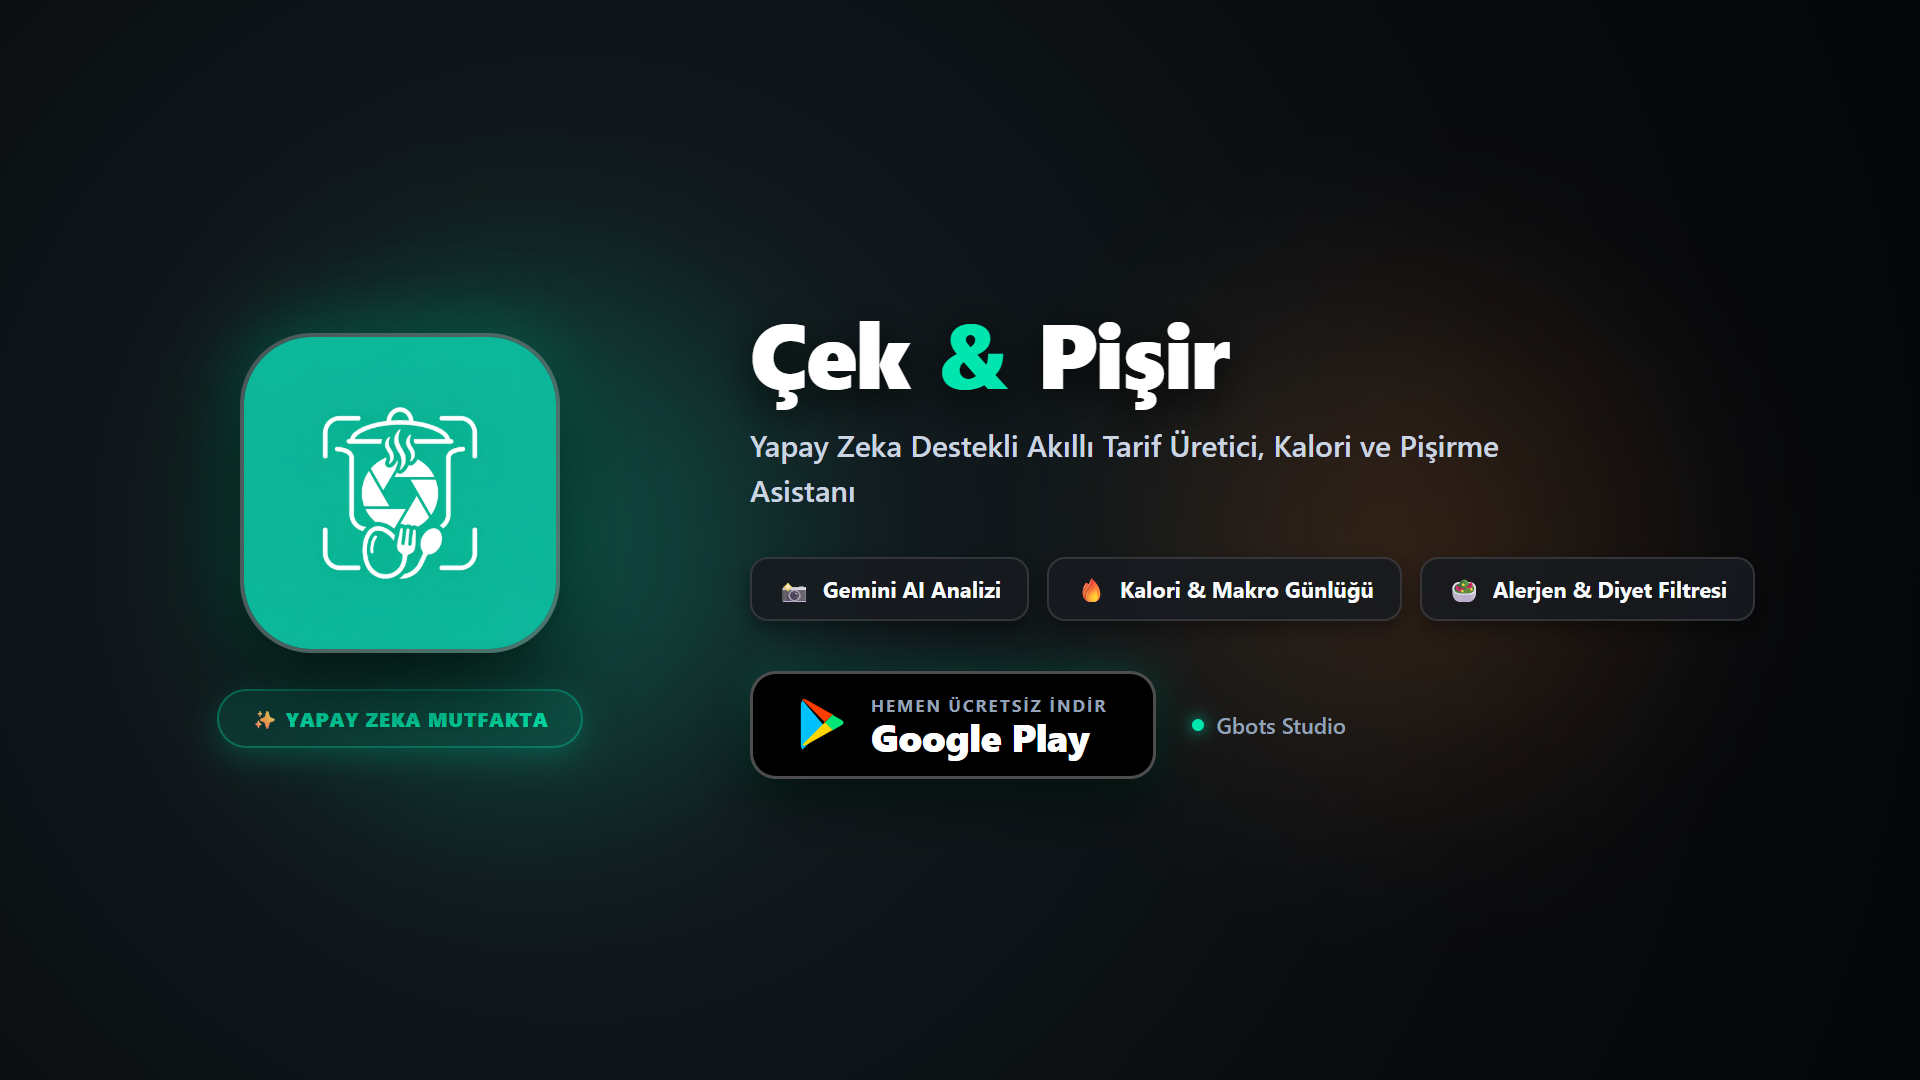
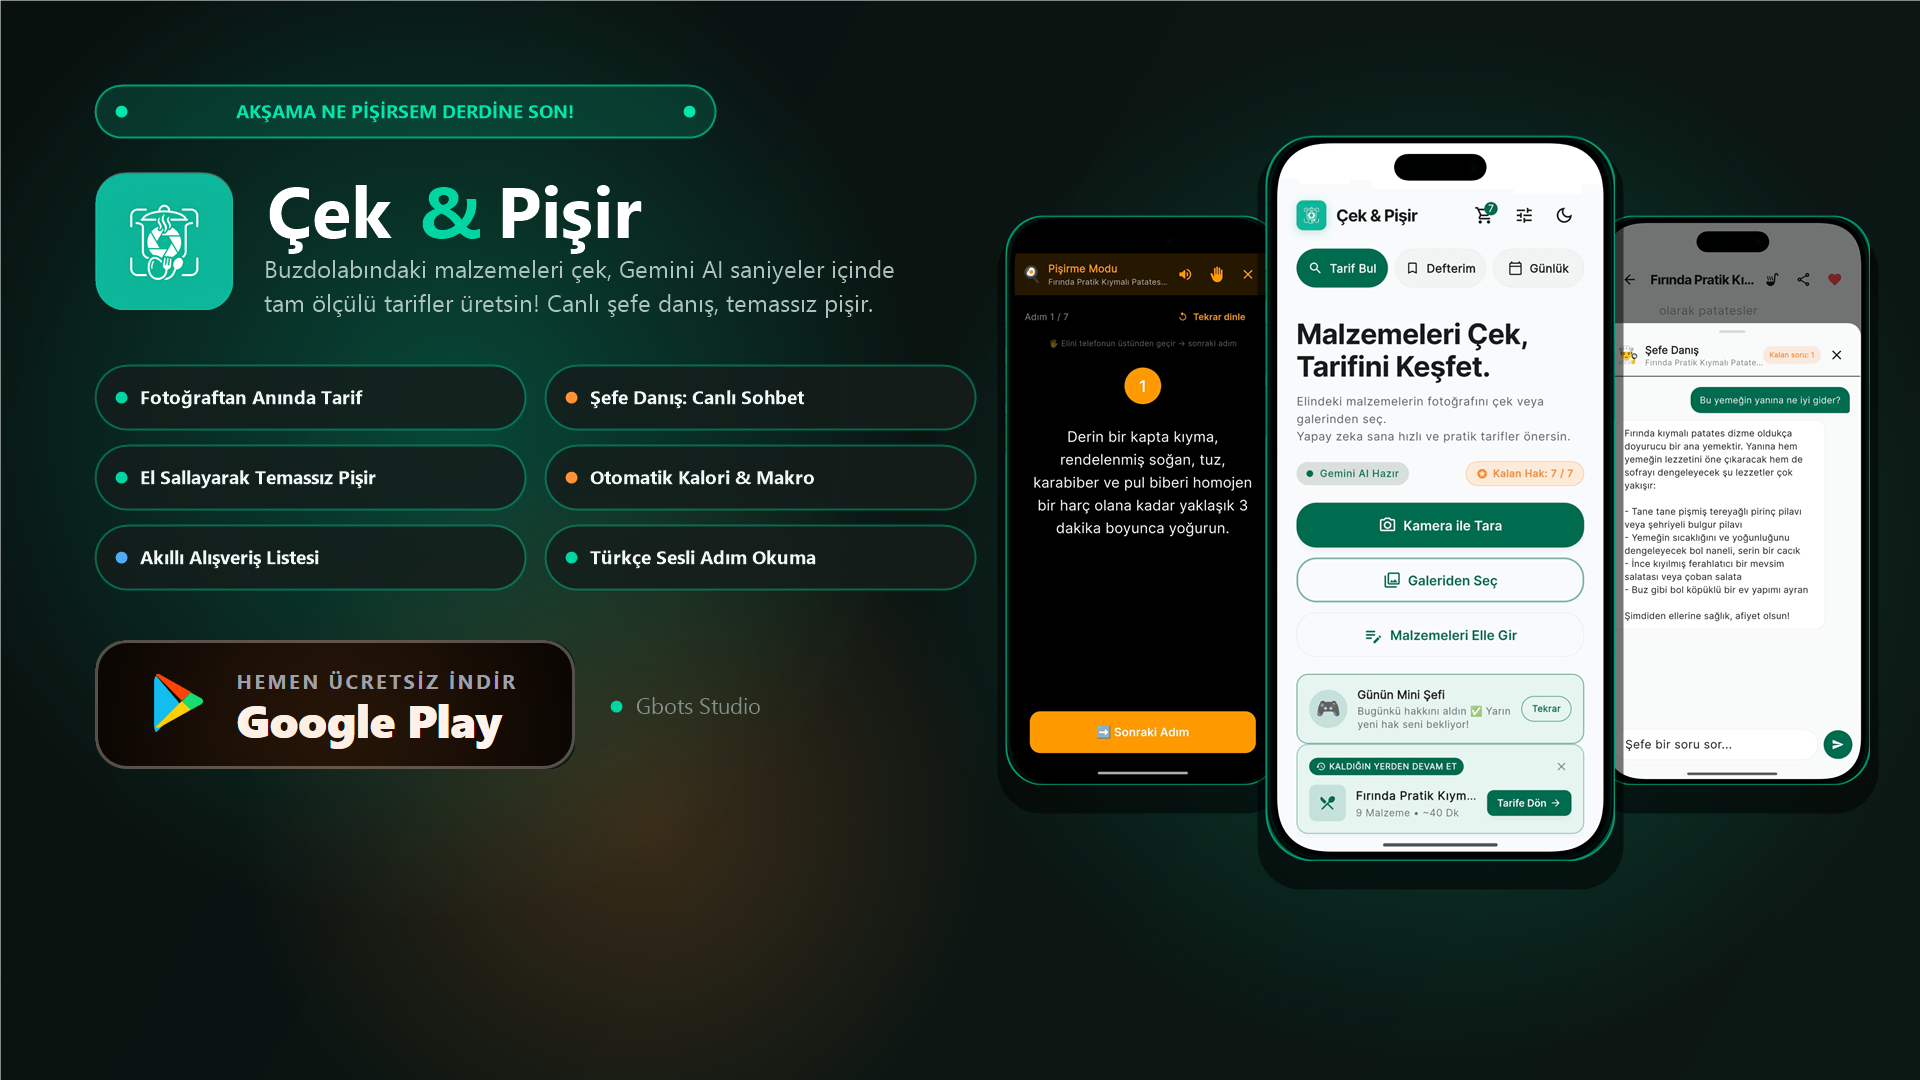
Add Play Store screenshot gallery and updated og-image to gbots.app

diff --git a/index.html b/index.html
@@ -88,6 +88,56 @@
       margin: 0;
       line-height: 1.2;
     }
+    .hero-screenshot-showcase {
+      display: flex;
+      justify-content: center;
+      align-items: center;
+      position: relative;
+      padding: 10px 0;
+    }
+    .hero-screenshot-showcase img {
+      width: 100%;
+      max-width: 300px;
+      height: auto;
+      border-radius: 24px;
+      box-shadow: 0 22px 50px rgba(0, 0, 0, 0.55), 0 0 28px rgba(0, 200, 151, 0.18);
+      border: 1px solid rgba(0, 200, 151, 0.3);
+      transition: transform 0.35s ease;
+    }
+    .hero-screenshot-showcase img:hover {
+      transform: translateY(-6px) scale(1.015);
+    }
+    .screenshots-section {
+      padding: 72px 0 36px;
+      position: relative;
+    }
+    .screenshots-track {
+      display: grid;
+      grid-template-columns: repeat(auto-fit, minmax(220px, 1fr));
+      gap: 22px;
+      margin-top: 36px;
+    }
+    .screenshot-card {
+      background: rgba(22, 32, 29, 0.72);
+      border: 1px solid rgba(0, 200, 151, 0.22);
+      border-radius: 22px;
+      padding: 12px;
+      transition: transform 0.3s ease, border-color 0.3s ease, box-shadow 0.3s ease;
+      display: flex;
+      flex-direction: column;
+      align-items: center;
+    }
+    .screenshot-card:hover {
+      transform: translateY(-6px);
+      border-color: rgba(0, 200, 151, 0.6);
+      box-shadow: 0 18px 40px rgba(0, 0, 0, 0.45);
+    }
+    .screenshot-card img {
+      width: 100%;
+      height: auto;
+      border-radius: 16px;
+      display: block;
+    }
   </style>
 
   <!-- Schema.org Yapılandırılmış Veri (Mobil Uygulama + Organizasyon) -->
@@ -111,7 +161,15 @@
         "name": "Çek & Pişir - Snap & Cook AI Assistant",
         "operatingSystem": "Android",
         "applicationCategory": "FoodAndDrinkApplication",
-        "softwareVersion": "1.0.7",
+        "softwareVersion": "1.0.8",
+        "screenshot": [
+          "https://gbots.app/screenshots/screenshot1.png",
+          "https://gbots.app/screenshots/screenshot2.png",
+          "https://gbots.app/screenshots/screenshot3.png",
+          "https://gbots.app/screenshots/screenshot4.png",
+          "https://gbots.app/screenshots/screenshot5.png",
+          "https://gbots.app/screenshots/screenshot6.png"
+        ],
         "description": "Buzdolabınızdaki malzemelerin fotoğrafını çekin, Gemini AI anında lezzetli ve pratik yemek tarifleri üretsin. Canlı Şefe Danış sohbeti, temassız el sallama ve sesli okuma ile eller serbest pişirme, akıllı alışveriş listesi, otomatik kalori/makro sihirbazı ve su hatırlatıcı tek uygulamada.",
         "installUrl": "https://play.google.com/store/apps/details?id=com.gbots.cekpisir",
         "offers": {
@@ -149,6 +207,7 @@
         <ul class="nav-links" id="navLinks">
           <li><a href="#hero">Ana Sayfa</a></li>
           <li><a href="#featured">Çek & Pişir</a></li>
+          <li><a href="#screenshots">Ekran Görüntüleri</a></li>
           <li><a href="#features">Özellikler</a></li>
           <li><a href="privacy.html">Gizlilik Politikası</a></li>
           <li>
@@ -235,42 +294,41 @@
             </a>
           </div>
 
-          <div class="mockup-wrapper" aria-hidden="true">
-            <div class="mockup-phone">
-              <div class="mockup-notch"></div>
-              <div class="mockup-header">
-                <h4>Çek & Pişir AI</h4>
-                <span class="badge-green">Kalan Hak: 7/7</span>
-              </div>
-              <div class="mockup-item">
-                <div class="mockup-item-icon">📸</div>
-                <div class="mockup-item-text">
-                  <h5>Malzemeleri Çek</h5>
-                  <p>Tavuk, Domates, Biber algılandı</p>
-                </div>
-              </div>
-              <div class="mockup-item">
-                <div class="mockup-item-icon">✨</div>
-                <div class="mockup-item-text">
-                  <h5>Sebzeli Tavuk Sote</h5>
-                  <p>25 Dakika • Kolay • 420 kcal</p>
-                </div>
-              </div>
-              <div class="mockup-item">
-                <div class="mockup-item-icon">👨🍳</div>
-                <div class="mockup-item-text">
-                  <h5>Şefe Danış (Canlı Sohbet)</h5>
-                  <p>Alternatif malzeme & kıvam tüyoları</p>
-                </div>
-              </div>
-              <div class="mockup-item">
-                <div class="mockup-item-icon">👋</div>
-                <div class="mockup-item-text">
-                  <h5>Temassız Pişirme Modu</h5>
-                  <p>El Sallama ile Geçiş • Türkçe Sesli</p>
-                </div>
-              </div>
+          <div class="mockup-wrapper">
+            <div class="hero-screenshot-showcase">
+              <img src="screenshots/screenshot1.png" alt="Çek & Pişir Ana Ekran - Fotoğrafı Çek, Yapay Zeka Tarif Üretsin" width="300" height="652" loading="eager">
             </div>
+          </div>
+        </div>
+      </div>
+    </section>
+
+    <!-- App Screenshots Gallery Section -->
+    <section id="screenshots" class="screenshots-section">
+      <div class="container">
+        <div class="section-header">
+          <h2 class="section-title">Uygulama İçi Ekranlar</h2>
+          <p class="section-subtitle">Fotoğraftan tarif üretiminden canlı Şefe Danış sohbetine, el sallayarak temassız pişirmeden kalori sihirbazına kadar tüm deneyimi keşfedin.</p>
+        </div>
+
+        <div class="screenshots-track">
+          <div class="screenshot-card">
+            <img src="screenshots/screenshot1.png" alt="Çek & Pişir - Fotoğrafı Çek, Yapay Zeka Tarif Üretsin" width="330" height="717" loading="lazy">
+          </div>
+          <div class="screenshot-card">
+            <img src="screenshots/screenshot2.png" alt="Çek & Pişir - Püf Noktalarıyla Adım Adım Tarifler" width="330" height="717" loading="lazy">
+          </div>
+          <div class="screenshot-card">
+            <img src="screenshots/screenshot3.png" alt="Çek & Pişir - Şefe Danış: Tarif İçinde Canlı Sohbet" width="330" height="717" loading="lazy">
+          </div>
+          <div class="screenshot-card">
+            <img src="screenshots/screenshot4.png" alt="Çek & Pişir - El Sallayarak Temassız & Sesli Pişirme Modu" width="330" height="717" loading="lazy">
+          </div>
+          <div class="screenshot-card">
+            <img src="screenshots/screenshot5.png" alt="Çek & Pişir - Akıllı Alışveriş Listesi ve 9:16 Hikaye Kartı" width="330" height="717" loading="lazy">
+          </div>
+          <div class="screenshot-card">
+            <img src="screenshots/screenshot6.png" alt="Çek & Pişir - Kalori & Makro Sihirbazı ve Su Takibi" width="330" height="717" loading="lazy">
           </div>
         </div>
       </div>
